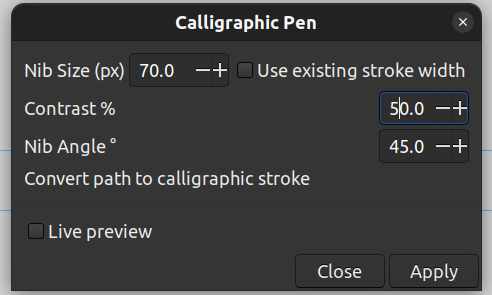
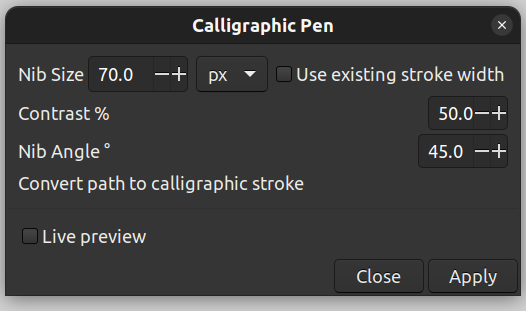
added units to dialog, cleaned up README

Changed region(s): [[0.0, 0.0, 1.0, 1.0], [0.061, 0.7322, 0.3049, 0.8237], [0.7927, 0.5492, 0.9451, 0.5797]]

diff --git a/calligraphic-pen/calligraphic_pen_typography_extension.py b/calligraphic-pen/calligraphic_pen_typography_extension.py
@@ -24,24 +24,16 @@ that will be used subsequently.
 """
 
 import inkex
-import math
-from inkex.paths import CubicSuperPath, Path
 from inkex.transforms import Transform
-from inkex.styles import Style
 from inkex import (
     Group,
-    Anchor,
-    Switch,
     NamedView,
     Defs,
     Metadata,
     ForeignObject,
-    ClipPath,
     Use,
-    SvgDocumentElement,
     Layer,
 )
-import datetime
 
 import calligraphic_pen_effect
 
@@ -56,7 +48,7 @@ class CalligraphicPenTypographyExtension(calligraphic_pen_effect.CalligraphicPen
     """
 
     def effect(self):
-        scale, angle, nib_size = self.get_args()
+        scale, angle, nib_size, units = self.get_args()
         originals = {}
         glyphs = {}
         all_names = {}
@@ -81,7 +73,7 @@ class CalligraphicPenTypographyExtension(calligraphic_pen_effect.CalligraphicPen
             new_layer = self.copy_glyphlayer(name, originals[name])
             new_layer = self.perform_inlining(new_layer)
             for item in new_layer.iterchildren():
-                self.modify_stroke(item, nib_size=nib_size, scale=scale, angle=angle)
+                self.modify_stroke(item, nib_size=nib_size, scale=scale, angle=angle, units=units)
 
     def unlink_glyphlayer(self, layer):
         layer.getparent().remove(layer)
@@ -111,7 +103,6 @@ class CalligraphicPenTypographyExtension(calligraphic_pen_effect.CalligraphicPen
             path = child.to_path_element()
             child.replace_with(path)
 
-    # Flatten a group into same z-order as parent, propagating attribs
     def _ungroup(self, node):
         for child in reversed(list(node)):
             if not isinstance(child, inkex.BaseElement):
@@ -121,6 +112,7 @@ class CalligraphicPenTypographyExtension(calligraphic_pen_effect.CalligraphicPen
             child.transform = node.transform @ child.transform
             self.dbg(f'_ungroup({self.label(node)}) -> {self.label(child)} after transform')
             node.getparent().insert(list(node.getparent()).index(node), child)
+            yield child
 
         node.getparent().remove(node)
 
@@ -142,17 +134,12 @@ class CalligraphicPenTypographyExtension(calligraphic_pen_effect.CalligraphicPen
         while queue:
             self.dbg(f'queue {[self.label(x) for x in queue]}')
             node = queue.pop()
-            if isinstance(node, (NamedView, Defs, Metadata, ForeignObject)):
-                pass
-            elif isinstance(node, Use):
+            if isinstance(node, Use):
                 queue.append(self._ungroup_use(node))
             elif isinstance(node, Group):
-                if list(node):
-                    for child in node.iterchildren():
-                        self.dbg(f'queue.append({self.label(child)})')
-                        queue.append(child)
-                if node.getparent() is not None:
-                    self._ungroup(node)
+                for child in self._ungroup(node):
+                    self.dbg(f'queue.append({self.label(child)})')
+                    queue.append(child)
 
     def flatten(self, group):
         for child in group.iterchildren():

diff --git a/calligraphic-pen/calligraphic_pen_effect.py b/calligraphic-pen/calligraphic_pen_effect.py
@@ -40,17 +40,17 @@ class CalligraphicPenEffect(inkex.EffectExtension):
         pars.add_argument("--ignore_nib_size", type=inkex.Boolean, default=False, help="Do not use nib size")
         pars.add_argument("--contrast", type=float, default=50.0, help="Amount of contrast")
         pars.add_argument("--angle", type=float, default=0.0, help="Nib Angle")
+        pars.add_argument("--units", type=str, default="px", help="Nib Size Units")
 
     def get_args(self):
         scale = 1 - self.options.contrast / 100.0
-        angle = self.options.angle
         nib_size = 0 if self.options.ignore_nib_size else self.options.nib_size
-        return scale, angle, nib_size
+        return scale, self.options.angle, nib_size, self.options.units
 
     def effect(self):
         raise Exception('child class must implenent effect')
 
-    def modify_stroke(self, elem, *, nib_size, scale, angle):
+    def modify_stroke(self, elem, *, nib_size, scale, angle, units):
         self.dbg(f"modify_stroke {elem.get_id()}")
         # transfer the elements transform to its points
         if elem.transform:
@@ -61,7 +61,7 @@ class CalligraphicPenEffect(inkex.EffectExtension):
         # transform the points of the path, leaving the stroke width unchanged
         self.transform_points(elem, self.stretch_transform(scale, angle))
         # set the stroke_width
-        self.set_nib_size(elem, nib_size)
+        self.set_nib_size(elem, nib_size, units)
         # inverse transform the path and stroke
         elem.transform = self.shrink_transform(scale, angle)
         end = self.start_point(elem)
@@ -73,9 +73,9 @@ class CalligraphicPenEffect(inkex.EffectExtension):
     def shrink_transform(self, scale=1, angle=0):
         return inkex.Transform(rotate=(angle,)) @ inkex.Transform(scale=(scale, 1))
 
-    def set_nib_size(self, elem, nib_size):
+    def set_nib_size(self, elem, nib_size, units):
         if nib_size > 0:
-            stroke_width = self.svg.unittouu(f'{nib_size}px')
+            stroke_width = self.svg.unittouu(f'{nib_size}{units}')
             if 'style' in elem.attrib:
                 style = dict(Style.parse_str(elem.attrib.get('style')))
             else:

diff --git a/calligraphic-pen/calligraphic_pen_effect_extension.py b/calligraphic-pen/calligraphic_pen_effect_extension.py
@@ -29,9 +29,9 @@ class CalligraphicPenEffectExtension(calligraphic_pen_effect.CalligraphicPenEffe
     """Apply a calligraphic stroke to a selected path"""
 
     def effect(self):
-        scale, angle, nib_size = self.get_args()
+        scale, angle, nib_size, units = self.get_args()
         for elem in self.svg.selection.filter(inkex.PathElement):
-            self.modify_stroke(elem, nib_size=nib_size, scale=scale, angle=angle)
+            self.modify_stroke(elem, nib_size=nib_size, scale=scale, angle=angle, units=units)
 
 
 if __name__ == '__main__':

diff --git a/calligraphic-pen/README.md b/calligraphic-pen/README.md
@@ -16,11 +16,12 @@ The second is intended to work with the existing Inkscape Typography extension.
 It applies that same calligraphic stroke to all paths, groups and clones in the
 `GlyphLayer-*` layers created by that extension, in a non-destructive manner.
 
-### Calligraphic Pen Extension
+### 1. Calligraphic Pen Extension
 
 After installation it is found in `Extensions>Calligraphy>Calligraphic Pen`.
 
-To use, first select a path, for example I have this letter "e":
+To use, first select a path (it must be a path, not a group, object or clone),
+for example I have this letter "e":
 
 ![unmodified e](./screenshots/unmodified-e.png)
 
@@ -41,7 +42,7 @@ If you have different paths of different widths, and you want to preserve those,
 "use existing stroke width" and it will skip the step where it assigns the nib size
 to the path stroke width.
 
-### Typography Calligraphic Pen Extension
+### 2. Typography Calligraphic Pen Extension
 
 After installation, this can be found in `Extensions>Typography>Calligraphic Pen`
 
@@ -50,43 +51,25 @@ except there is no live preview option.
 As mentioned, this is intended to work seamlessly with the "Typography" extension that is
 bundled with Inkscape.
 
-To recap, said pre-bundled Typography extension will create separate layers for each character that
+To recap, that pre-bundled Typography extension will create separate layers for each character that
 you want to create, each with a prefix `GlyphLayer-`, so `GlyphLayer-A`, `GlyphLayer-B` etc. You
 start by drawing your characters in those layers.
 
+What this Typography Calligraphic Pen Extension does is, for each `{char}`:
 
-What this Typography Calligraphic Pen Extension does is to:
+1. Rename `GlyphLayer-{char}` to `Original-GL-{char}`.
+2. Copy the `Original-GL-{char}` to `GlyphLayer-{char}`. 
+3. Inline all the underlying paths in `GlyphLayer-{char}`.
+4. Apply the calligraphic pen effect to each path in `GlyphLayer-{char}`.
 
-1. rename each of the `GlyphLayer-` layers to equivalent `Original-GL-` layers.
-2. copy those backups back over the `GlyphLayer-` layers. 
-3. inline all the underlying paths in the new `GlyphLayer-` layers, ungrouping groups,
-uncloning clones and converting objects to paths.
-4. apply the Calligraphic Pen effect to each path in those layers.
-
-However, if it finds a pre-existing `Original-GL-` layer it will instead assume it has been
-run before, delete any equivalent `GlyphLayer-` layer, then skip to step 2.
+However, if there is already an `Original-GL-{char}` layer it will instead assume it has been
+run before, delete any equivalent `GlyphLayer-{char}`, then skip to step 2. Likewise, if there is
+an `Original-GL-{char}` with no `GlyphLayer-{char}`, it just skips to step 2.
 
 #### TL;DR
-After running the extension you can continue to edit your characters, but now in their
-`Original-GL-` layers. Every time you run it, it will delete then re-create the `GlyphLayer-`
-layers and apply the effect, so any changes you make in a `GlyphLayer-` which already has an
-`Original-GL-` will be lost. You should consider those `GlyphLayer-` layers as read-only.
-
-If you want to add more characters later, you can still use the Typography extension
-to create new `GlyphLayer-` layers, or you can create new `Original-GL-` layers manually.
-Either way the extension should be well-behaved: it will never make changes to an existing
-`Original-GL-` layer and it will never make changes to a `GlyphLayer-` layer without
-first ensuring there is an `Original-GL-` layer backup of it.
-
-You can also use the standalone Calligraphic Pen effect individually on your `Original-GL-`
-glyphs to see how they will look.
-
-## Acknowledgements
-
-The Typography extension borrows heavily from the "deep ungroup" extension (with modifications).
-There are also lesser borrowings from other extensions.
-The "trick" that the Calligraphy extension uses was taken from a forum post which I can't
-seem to find, but it's not my original idea.
-
-The extension was used to aid the generation of glyphs for my
-[Royston](https://github.com/billhails/Scrawl) font project.
+You can continue to edit your characters but in their new `Original-GL-` layers.
+You can re-run the extension as many times as you like to update the `GlyphLayer-` layers.
+You can even create more `GlyphLayer-` layers, new ones will be detected and backed up before
+being updated.
+You can use groups, objects and clones in your `Original-GL-` layers, they will be inlined to
+bare paths in the `GlyphLayer-` layers before the effect is applied.
